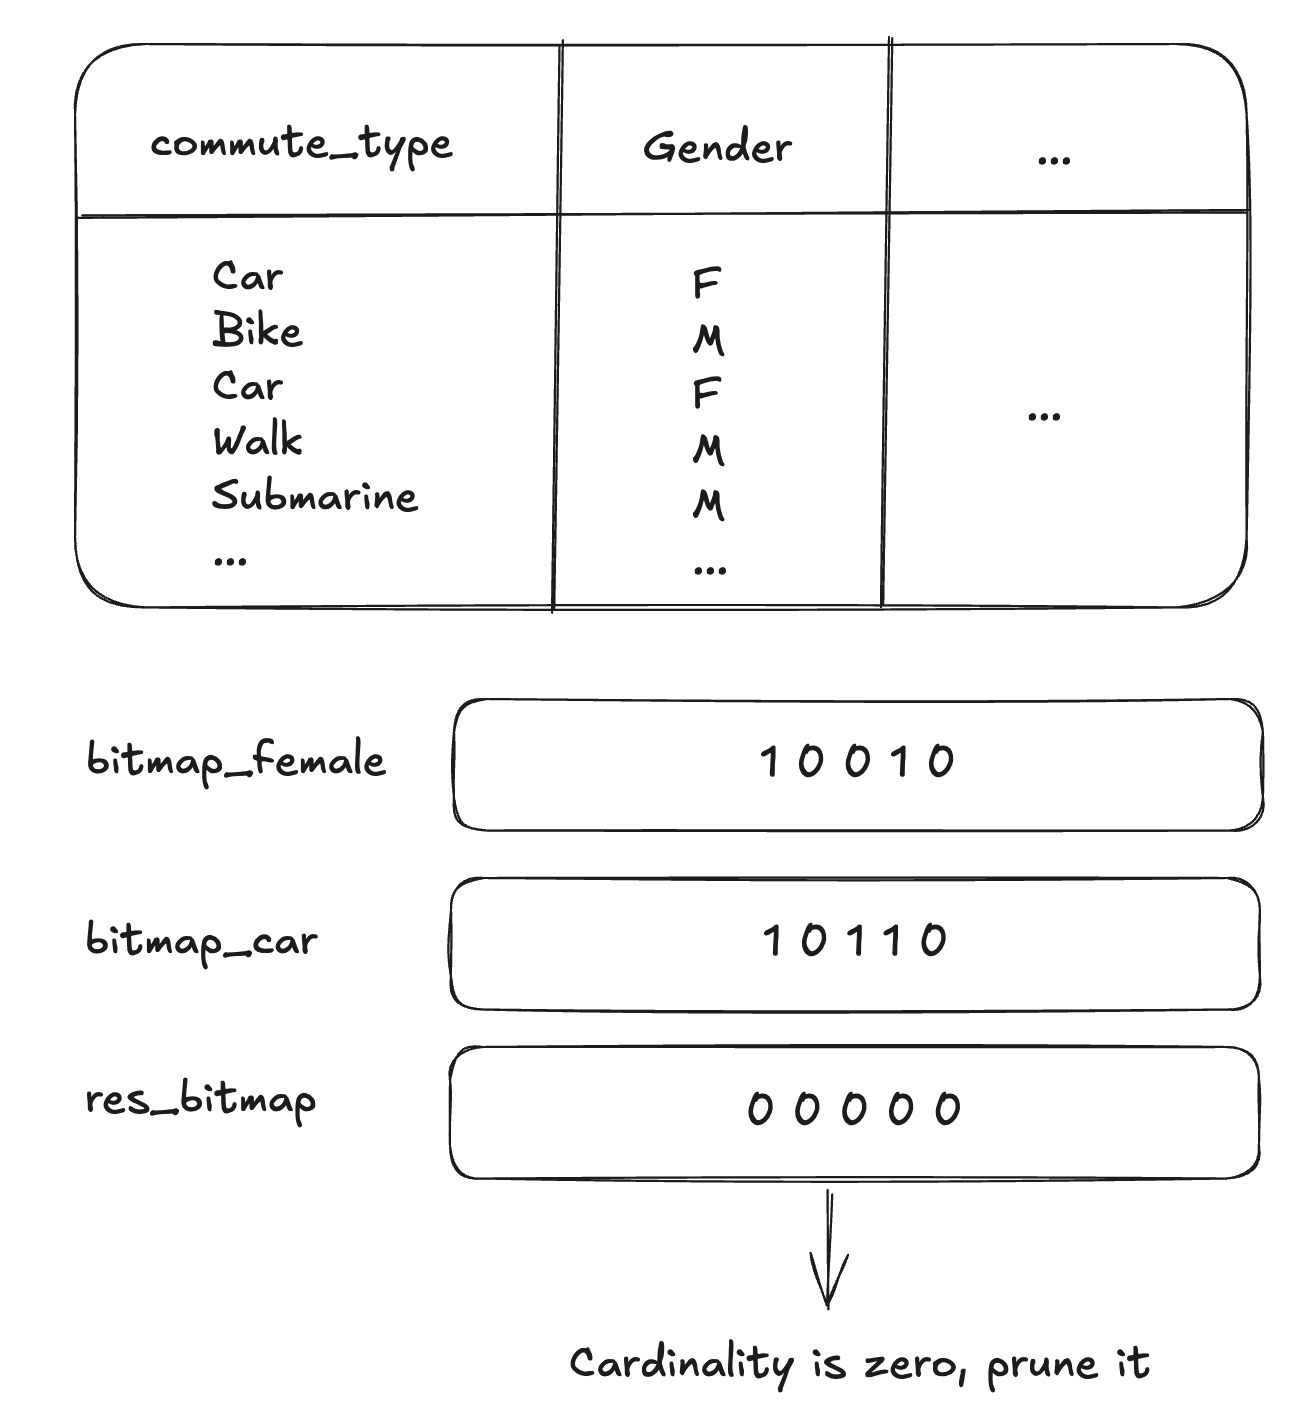
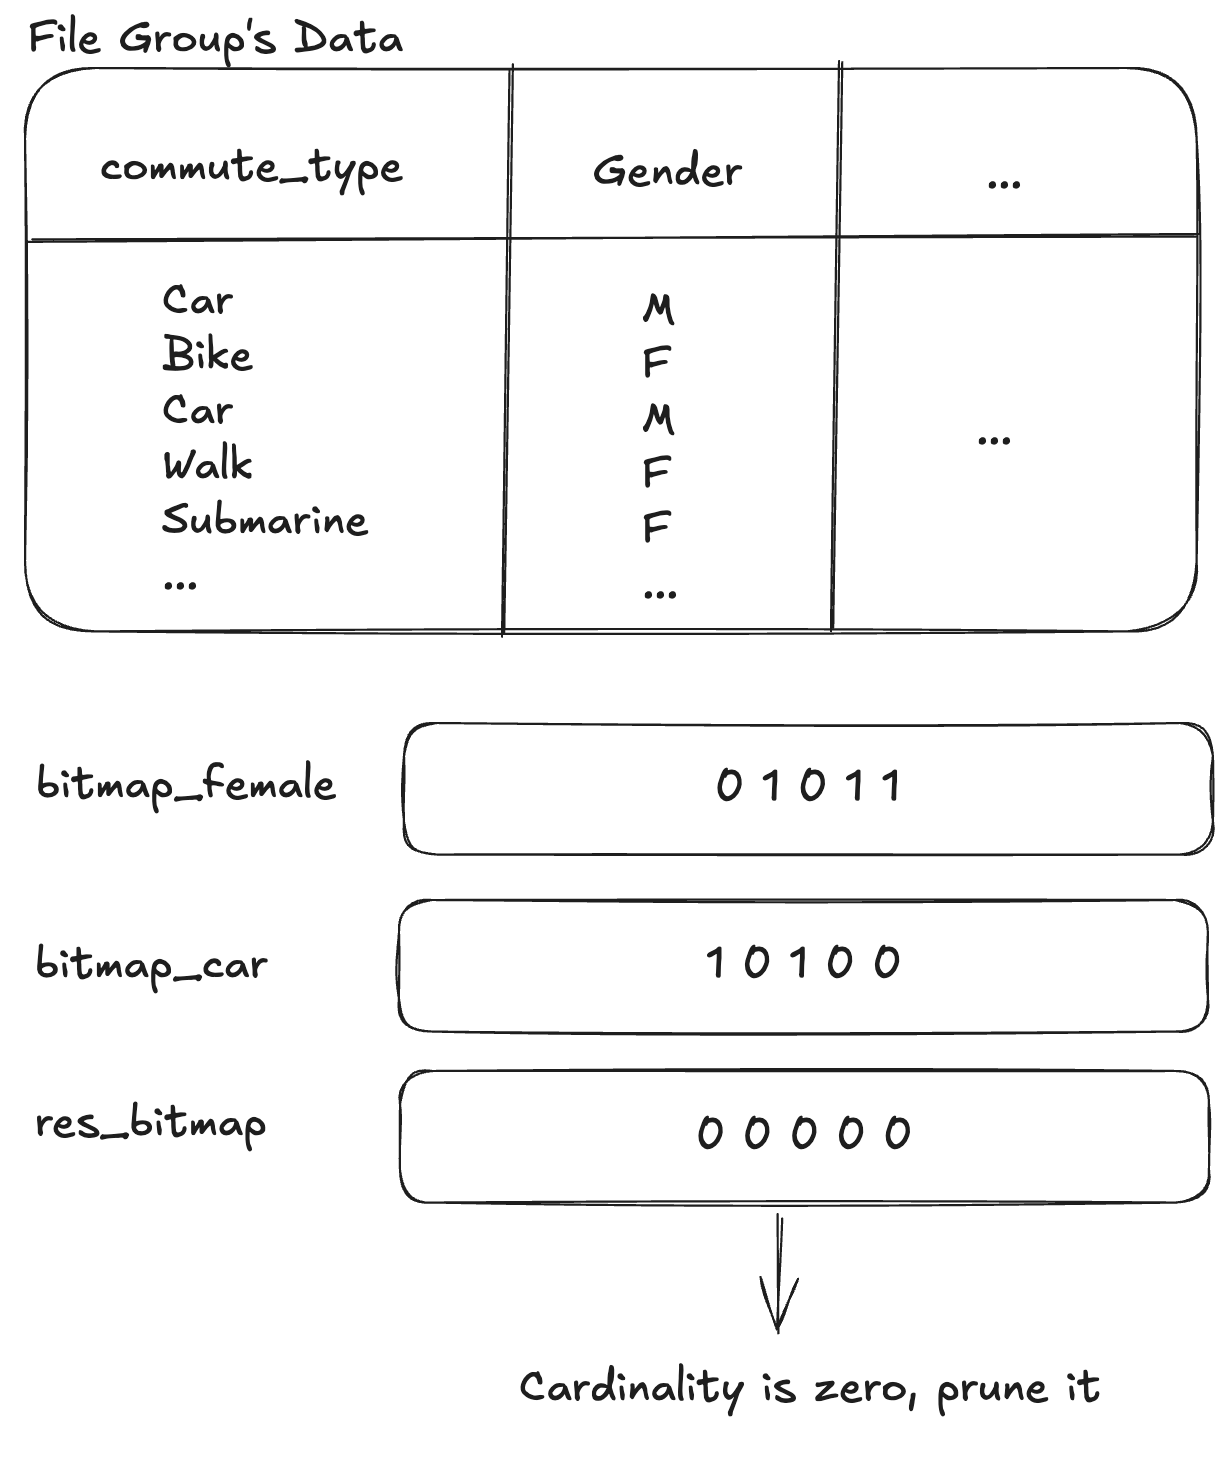
remove not equal to from rfc

diff --git a/rfc/rfc-92/rfc-92.md b/rfc/rfc-92/rfc-92.md
@@ -41,7 +41,10 @@ By introducing bitmap index support, we aim to enhance Hudi’s performance for 
 A bitmap index is a specialized indexing technique that enhances query performance, particularly for columns with low cardinality (few distinct values). 
 Instead of storing row pointers like traditional indexes, it represents data as bitmaps, where each distinct value in a column has a corresponding bit vector indicating the presence of that value in different rows.
 The main advantage of a bitmap index is its ability to perform fast bitwise operations, which allow for quick filtering and combination of multiple conditions.
-![bitmap_example](./bitmap_example.png)
+<p align="center">
+<img src="./bitmap_example.png" width="610" height="550" />
+</p>
+
 In Hudi, bitmap indexes can provide significant performance benefits by helping to skip unnecessary files during query execution. 
 Since Hudi organizes data into files and partitions, a bitmap index can track which files contain relevant values, allowing the query engine to efficiently prune irrelevant files before scanning. 
 Additionally, bitmap indexes enable bitmap joins, where bitwise operations quickly determine matching records across datasets without performing costly row-by-row comparisons.
@@ -143,33 +146,40 @@ This is because:
 To enable file pruning using the bitmap index, we can extend `SparkBaseIndexSupport` with a new `BitmapIndexSupport`. 
 The initial implementation will target Spark, but the design can be adapted for other engines.
 
+As of now, the bitmap index only supports the `EqualTo` (`=`) query filter.
+The `Not(EqualTo)` (`!=`) filter is not supported because the underlying implementation uses RoaringBitmap.
+RoaringBitmap is a space-efficient, sparse bitmap format. It doesn't support global `not` or `flipAll` operations, as these require a well-defined range of record positions.
+In other words, we would need to know the full range of possible record positions in advance—which is not practical in most cases.
+
 Imagine a table tracking how people commute to work. 
 We index the `gender` and `commute_type` columns using bitmap indexing.
-We want to find the age of the youngest woman who does not commute by car:
+We want to find the age of the youngest woman who commute by car:
 ```
 SELECT MIN(age) FROM hudi_table
-WHERE gender = 'female' AND commute_type != 'car';
+WHERE gender = 'female' AND commute_type = 'car';
 ```
 This query can generate two filters: 
 - `EqualTo(gender, female)`
-- `Not(EqualTo(commute_type, car))`
+- `EqualTo(commute_type, car)`
 
 We can use the following logic to prune file groups:
 ```
 for file_group in file_groups
   # 1. get bitmap for the gender filter
-  let bitmap_key_female = gender$female$file_group_id
-  let bitmap_female = metadata_table.getBitmap(bitmap_key_female)
+  bitmap_key_female = gender$female$file_group_id
+  bitmap_female = metadata_table.getBitmap(bitmap_key_female)
   # 2. get bitmap for the commute_type filter
-  let bitmap_key_car = commute_type$car$file_group_id
-  let bitmap_car = metadata_table.getBitmap(bitmap_key_car)
-  # 3. perform ANDNOT
-  let res_bitmap = bitmap_female.andNot(bitmap_car)
+  bitmap_key_car = commute_type$car$file_group_id
+  bitmap_car = metadata_table.getBitmap(bitmap_key_car)
+  # 3. perform bit-wise and
+  res_bitmap = bitmap_female.and(bitmap_car)
   # 4. If the result is non-empty, include the file group
   if res_bitmap.cardinality != 0
     then include file_group
 ```
-![prune_example](./prune_example.png)
+<p align="center">
+<img src="./prune_example.png" width="610" height="732" />
+</p>
 
 ### New Hudi Configs
 
